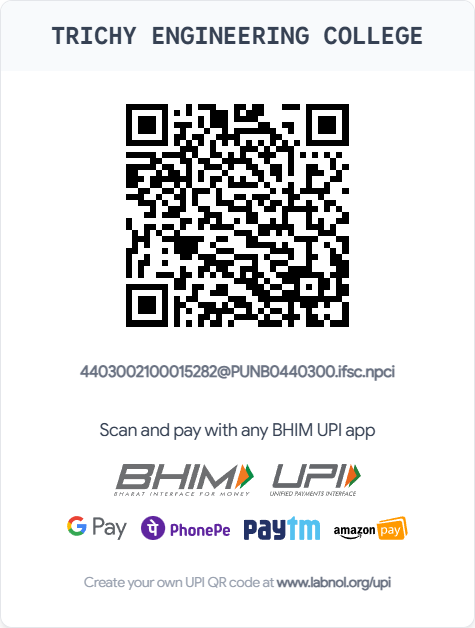
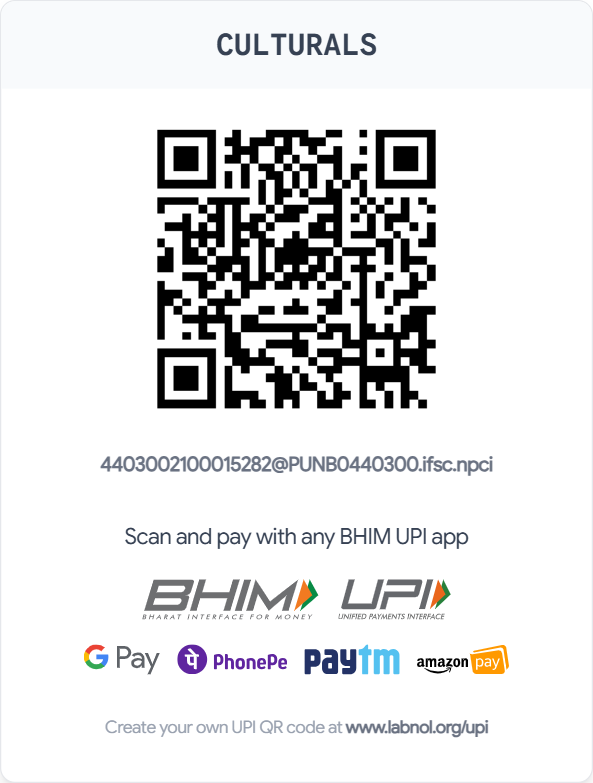
feat: Implement a comprehensive event registration system with form management, payment handling, QR code generation, and an admin view.

diff --git a/src/routes/admin/registrations/+page.svelte b/src/routes/admin/registrations/+page.svelte
@@ -38,6 +38,40 @@
 		isRefreshing = false;
 	}
 
+	let isUpdating = $state(false);
+
+	async function handlePaymentUpdate(status) {
+		if (!selectedReg) return;
+
+		isUpdating = true;
+		try {
+			const res = await fetch(`${API_BASE_URL}/api/admin/verify-payment`, {
+				method: 'POST',
+				headers: {
+					'Content-Type': 'application/json'
+				},
+				body: JSON.stringify({
+					id: selectedReg.id,
+					status: status
+				})
+			});
+
+			if (!res.ok) {
+				const errorData = await res.json().catch(() => ({}));
+				throw new Error(errorData.message || 'Failed to update payment status');
+			}
+
+			// Update successful
+			selectedReg = null;
+			await refreshData();
+		} catch (error) {
+			console.error('Error updating status:', error);
+			alert(error.message || 'Error updating payment status');
+		} finally {
+			isUpdating = false;
+		}
+	}
+
 	let { data } = $props();
 
 	let openIds = $state({});
@@ -245,7 +279,7 @@
 
 	function getStatusColor(status) {
 		switch (status) {
-			case 'approved':
+			case 'verified':
 				return 'bg-green-100 text-green-700 border-green-200';
 			case 'rejected':
 				return 'bg-red-100 text-red-700 border-red-200';
@@ -256,7 +290,7 @@
 
 	function getStatusIcon(status) {
 		switch (status) {
-			case 'approved':
+			case 'verified':
 				return CheckCircle2;
 			case 'rejected':
 				return XCircle;
@@ -275,11 +309,11 @@
 			? statsRegistrations.filter((r) => r && r.payment_status === 'pending').length
 			: 0,
 		approved: Array.isArray(statsRegistrations)
-			? statsRegistrations.filter((r) => r && r.payment_status === 'approved').length
+			? statsRegistrations.filter((r) => r && r.payment_status === 'verified').length
 			: 0,
 		revenue: Array.isArray(statsRegistrations)
 			? statsRegistrations
-					.filter((r) => r && r.payment_status === 'approved')
+					.filter((r) => r && r.payment_status === 'verified')
 					.reduce((acc, curr) => acc + (Number(curr.amount) || 0), 0)
 			: 0
 	});
@@ -873,7 +907,7 @@
 							>Payment Status</span
 						>
 						<div class="mt-2 flex items-center gap-2">
-							{#if scanResult.paymentStatus === 'approved'}
+							{#if scanResult.paymentStatus === 'verified'}
 								<div
 									class="flex items-center gap-1.5 rounded-full bg-green-100 px-3 py-1 text-xs font-black text-green-700 uppercase"
 								>
@@ -1051,36 +1085,26 @@
 					</div>
 				</div>
 
-				<form
-					method="POST"
-					action="?/updateStatus"
-					use:enhance={() => {
-						return async ({ result }) => {
-							if (result.type === 'success') {
-								selectedReg = null;
-							}
-						};
-					}}
-					class="grid grid-cols-2 gap-4"
-				>
-					<input type="hidden" name="id" value={selectedReg.id} />
+				<div class="grid grid-cols-2 gap-4">
 					<button
-						type="submit"
-						name="status"
-						value="approved"
-						class="flex h-12 items-center justify-center gap-2 rounded-xl bg-green-600 font-bold text-white shadow-lg shadow-green-600/20 transition-colors hover:bg-green-700"
+						type="button"
+						onclick={() => handlePaymentUpdate('verified')}
+						disabled={isUpdating}
+						class="flex h-12 items-center justify-center gap-2 rounded-xl bg-green-600 font-bold text-white shadow-lg shadow-green-600/20 transition-colors hover:bg-green-700 disabled:opacity-50"
 					>
-						<CheckCircle2 size={18} /> Approve
+						<CheckCircle2 size={18} />
+						{isUpdating ? 'Wait...' : 'Approve'}
 					</button>
 					<button
-						type="submit"
-						name="status"
-						value="rejected"
-						class="flex h-12 items-center justify-center gap-2 rounded-xl bg-red-600 font-bold text-white shadow-lg shadow-red-600/20 transition-colors hover:bg-red-700"
+						type="button"
+						onclick={() => handlePaymentUpdate('rejected')}
+						disabled={isUpdating}
+						class="flex h-12 items-center justify-center gap-2 rounded-xl bg-red-600 font-bold text-white shadow-lg shadow-red-600/20 transition-colors hover:bg-red-700 disabled:opacity-50"
 					>
-						<XCircle size={18} /> Reject
+						<XCircle size={18} />
+						{isUpdating ? 'Wait...' : 'Reject'}
 					</button>
-				</form>
+				</div>
 			</div>
 		</div>
 	</div>

diff --git a/src/lib/components/Register.svelte b/src/lib/components/Register.svelte
@@ -1143,14 +1143,14 @@
 												class="relative h-64 w-64 overflow-hidden rounded-2xl bg-white p-2 shadow-inner sm:h-80 sm:w-80"
 											>
 												<img
-													src={registrationType === 'symposium' ? symposiumQR : culturalsQR}
+													src={registrationType === 'cultural' ? culturalsQR : symposiumQR}
 													alt="UPI QR Code"
 													class="h-full w-full"
 												/>
 											</div>
 											<div class="flex flex-col gap-4">
 												<a
-													href={registrationType === 'symposium' ? symposiumQR : culturalsQR}
+													href={registrationType === 'cultural' ? culturalsQR : symposiumQR}
 													download="Inceptra_QR_{registrationType}.png"
 													class="flex items-center justify-center gap-2 rounded-xl bg-white px-6 py-3 text-sm font-bold text-[#8c2bee] shadow-sm transition-all hover:bg-gray-50 active:scale-95"
 												>
